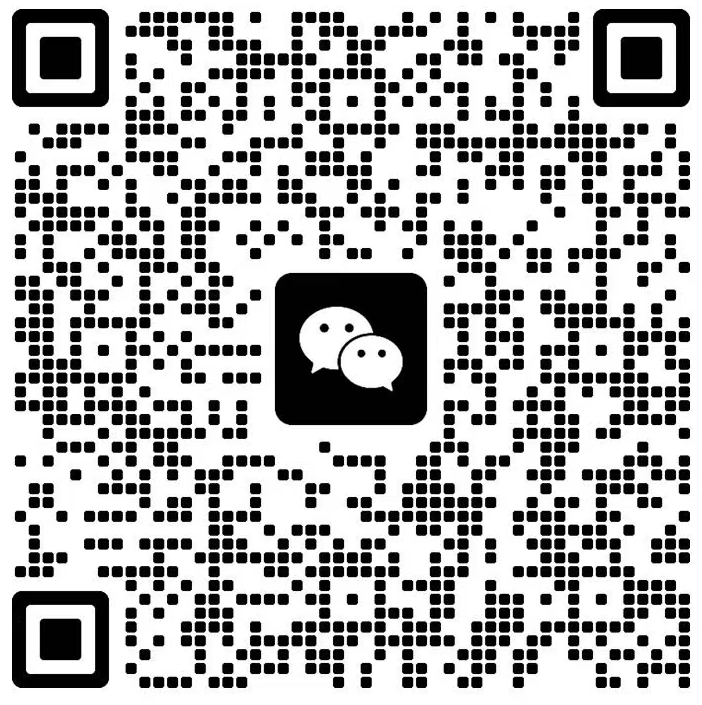
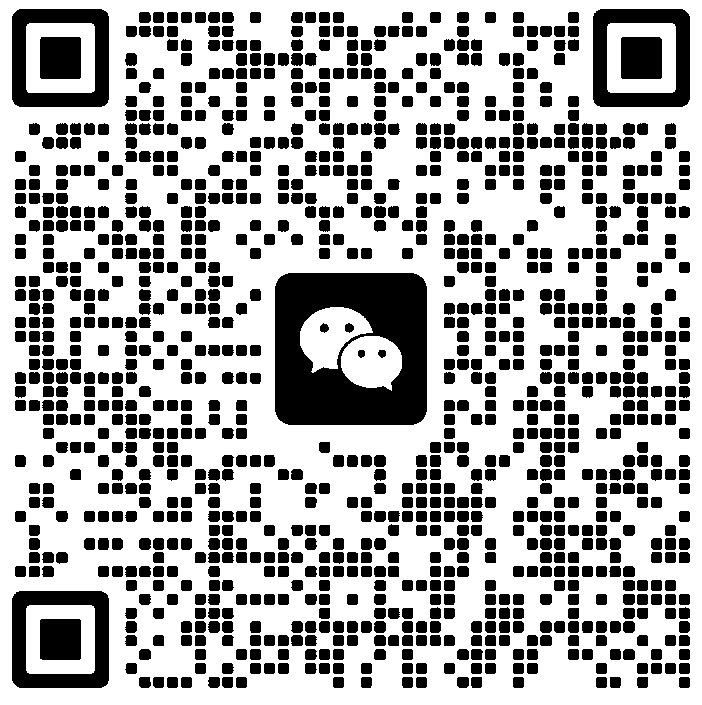
Release v1.0.6

diff --git a/docs/releases/v1.0.6.md b/docs/releases/v1.0.6.md
@@ -1,58 +1,73 @@
 # NestSpace v1.0.6
 
-这个版本重点完善 AI 助手操作应用时的显示方式、内置浏览器安全性和中文语音输入，同时更新了模型设置、交流入口和使用文档。
+这个版本集中完善了模型配置、AI 助手操作应用、内置浏览器下载和容器兼容性，同时重新整理了空间设置、平板布局与发布文档。
 
 ## 重点更新
 
-- AI 助手会区分“打开或操作应用”和“获取信息”：前者使用全屏应用，后者使用方形无头小窗。
-- 新增模型配置引导，没有模型时可以进入设置页完成配置。
-- 内置浏览器接管网页弹窗、网页回退链接和下载页，不再跳到系统浏览器。
-- 中文语音识别会自动整理词间空格，避免出现“打 开 抖 音”这类文本。
+- AI 助手会区分“直接打开应用”和“在后台获取信息”：前者进入正常应用界面，后者只在 AI 任务期间使用无头镜像小窗。
+- 新增模型配置引导、Claude/OpenAI 预设和常见厂家选择，首次使用可以更快完成模型配置。
+- 浏览器下载、网页跳转和 AI 获取应用信息统一留在 NestSpace 内，不再交给系统浏览器。
+- 增强运行时热加载和多进程隔离兼容，修复部分加固应用在免责声明后无法进入首页的问题。
 
 ## 新增
 
-- 支持从宿主导入已经安装的应用，并安装为独立的虚拟空间副本。
-- 下载文件支持在浏览器内查看进度，并可从下载列表删除。
-- AI 对话中支持显示下载进度和可展开的工具执行记录。
-- 新增模型配置页、模型预设和兼容接口配置。
-- 支持为离线语音模型选择下载路径。
-- 启动容器时增加品牌化加载动画和动态状态文案。
-- README 新增 Telegram 交流链接和微信群二维码。
-- “关于”页面新增 Telegram、微信群二维码和二维码保存按钮。
-- 使用文档按当前应用的设置分类、应用导入、AI 助手和浏览器行为全面更新。
-- 新增版本发布 Markdown 规范、更新日志模板、AI 发版指令和 Release 自动加载流程。
+- 支持导入宿主设备上已经安装的应用，并创建独立的虚拟空间副本。
+- 新增 Claude 与 OpenAI 协议预设、厂家胶囊选择、Base URL 和默认模型自动填充。
+- API Key 支持切换明文显示；模型地址会自动识别并补齐 `v1/messages`。
+- 新增模型配置引导页。首次运行可以选择配置模型，也可以先跳过。
+- AI 助手未配置模型时显示“去配置”，配置完成后显示欢迎界面。
+- AI 助手历史改为独立列表，可选择恢复历史对话或删除记录。
+- 悬浮球对话界面改为精简的语音助手形态，只保留当前对话，不显示完整历史。
+- 离线语音模型支持在下载过程中切换保存路径。
+- 内置浏览器新增下载菜单、下载进度卡片和下载列表删除功能。
+- 新增品牌化启动动画和容器加载动画，保留原有头像标识。
+- 设置页重新分类，并增加 AI 助手、模型、社交等常用入口。
+- “关于”页面新增 Telegram、微信群二维码和二维码保存到本地功能。
+- README 补充 Telegram 群组和微信群入口。
+- 新增版本发布说明模板、发布文档和 GitHub Release 自动发布流程。
+- 新增自动化测试覆盖模型配置、语音文本、容器原生库和 AI 操作展示规则。
 
 ## 修复
 
-- 修复部分页面点击“下载 App”时打开系统 Chrome 的问题。
-- 修复虚拟应用通过 `intent://` 网页回退地址跳出 NestSpace 的问题。
-- 修复系统空间通过 `space_launch` 启动浏览器包的问题。
-- 修复抖音第二次打开白屏，以及双击返回直接回到平板桌面的问题。
-- 修复 `ui_wait_for` 不传文字时错误返回成功的问题。
-- 修复模型连接失败提示占用页面顶部的问题，现改为 Toast。
-- 修复中文语音识别结果包含大量多余空格的问题。
+- 修复模型设置为空时仍自动出现 Claude 配置的问题；现在默认保持为空。
+- 修复模型为空时缺少明显添加入口的问题。
+- 修复模型连接失败的提示占用页面顶部的问题，统一改为 Toast。
+- 修复中文语音识别结果出现大量多余空格的问题。
+- 修复打开下载页、网页重定向或 AI 获取应用信息时可能跳出内置浏览器的问题。
+- 修复抖音再次打开白屏、返回直接回到平板桌面、关闭后仍有声音以及误用系统 PiP 的问题。
+- 修复无头任务启动时短暂全屏显示应用、随后缩回容器的问题。
+- 修复 `ui_wait_for` 未传文字时错误返回成功的问题。
+- 修复系统空间通过启动指令误打开浏览器包的问题。
+- 修复加固应用的运行时隐藏 DEX 未加载，导致同意免责声明后出现 `NoClassDefFoundError` 的问题。
+- 修复应用启动推送子进程时，进程池错误结束当前前台容器的问题。
+- 修复多个容器子进程重复创建 AI 语音悬浮窗，出现多个话筒入口的问题。
+- 修复部分应用返回后重新进入自身、启动 Activity 失效或从通知重新打开的问题。
+- 修复平板返回键、容器退出和部分应用生命周期行为异常的问题。
 
 ## 优化
 
-- “打开抖音”“打开抖音搜索”“获取抖音信息”等指令会按最终目标选择显示方式。
-- 其他虚拟应用使用相同的全屏与无头小窗判断规则。
-- 无头任务启动时保持 AI 助手页面稳定，不再闪现全屏容器。
-- 系统 PiP 能力保持开放，但 AI 无头任务期间不会额外进入系统 PiP。
-- 镜像小窗改为方形直角，并支持关闭时同时停止应用进程。
-- 模型连接成功、失败、保存和删除等临时提示统一使用 Toast。
-- 优化平板布局、设置分类、应用管理和 AI 助手界面文案。
-- “关于”页二维码支持保存到相册的 `Pictures/NestSpace`，旧系统保存到应用图片目录。
-- 移除文档中的外部容器产品与商业方案比较，只保留 NestSpace 自身说明。
+- 精简 AI 助手页面和模型配置页面文案，减少重复说明和无关提示。
+- 模型配置、上下文长度、最大输出和最大工具轮次输入更紧凑。
+- AI 助手设置、模型设置和历史记录都可以从更直接的入口进入。
+- 优化平板布局，底部快捷入口保持底部排列，不再增加主页侧边栏。
+- 优化应用管理、空间设置和常用入口分类，不常用设置移入次级页面。
+- 优化容器加载动画、镜像窗口和前后台切换，减少闪屏与全屏跳变。
+- 无头小窗作为 AI 助手组件使用，只在 AI 助手界面可见时显示。
+- 网络线路测试会执行三次并取最优结果，减少偶发波动。
+- 手机与平板通用应用兼容逻辑优先按 APK 和组件能力处理，减少针对单个软件的硬编码。
+- 微信群二维码保持原始 `702×705` 尺寸，通过黑白 PNG 优化将体积从约 369 KB 降至约 7 KB。
+- 更新 README、使用文档、架构说明、设置说明、浏览器说明和故障排查文档。
 
 ## 升级注意
 
-- Debug 安装包可以直接覆盖安装，但调试版与正式版签名不同。
-- 升级正式版时仍应使用 `v1.0.6` 发布页中的签名 APK，避免覆盖安装失败。
+- 从 `v1.0.5` 升级可以直接覆盖安装正式签名 APK，原有空间和应用数据会保留。
+- Debug APK 与正式 APK 签名不同。已经安装 Debug 版时，安装正式版前需要先卸载。
+- 系统 PiP 能力保持开放，但 AI 助手执行无头任务时不会额外进入系统 PiP。
 
 ## 安装包
 
-- `NestSpace-v1.0.6-arm64.apk`：ARM64 真机与带 ARM 转译的模拟器。
-- `NestSpace-v1.0.6-x86_64.apk`：x86_64 PC / 模拟器。
+- `NestSpace-v1.0.6-arm64.apk`：ARM64 真机和带 ARM 转译的模拟器。
+- `NestSpace-v1.0.6-x86_64.apk`：x86_64 PC 和模拟器。
 - `NestSpace-v1.0.6-universal.apk`：不确定 ABI 或需要通用包时使用。
 
 ## 完整变更
